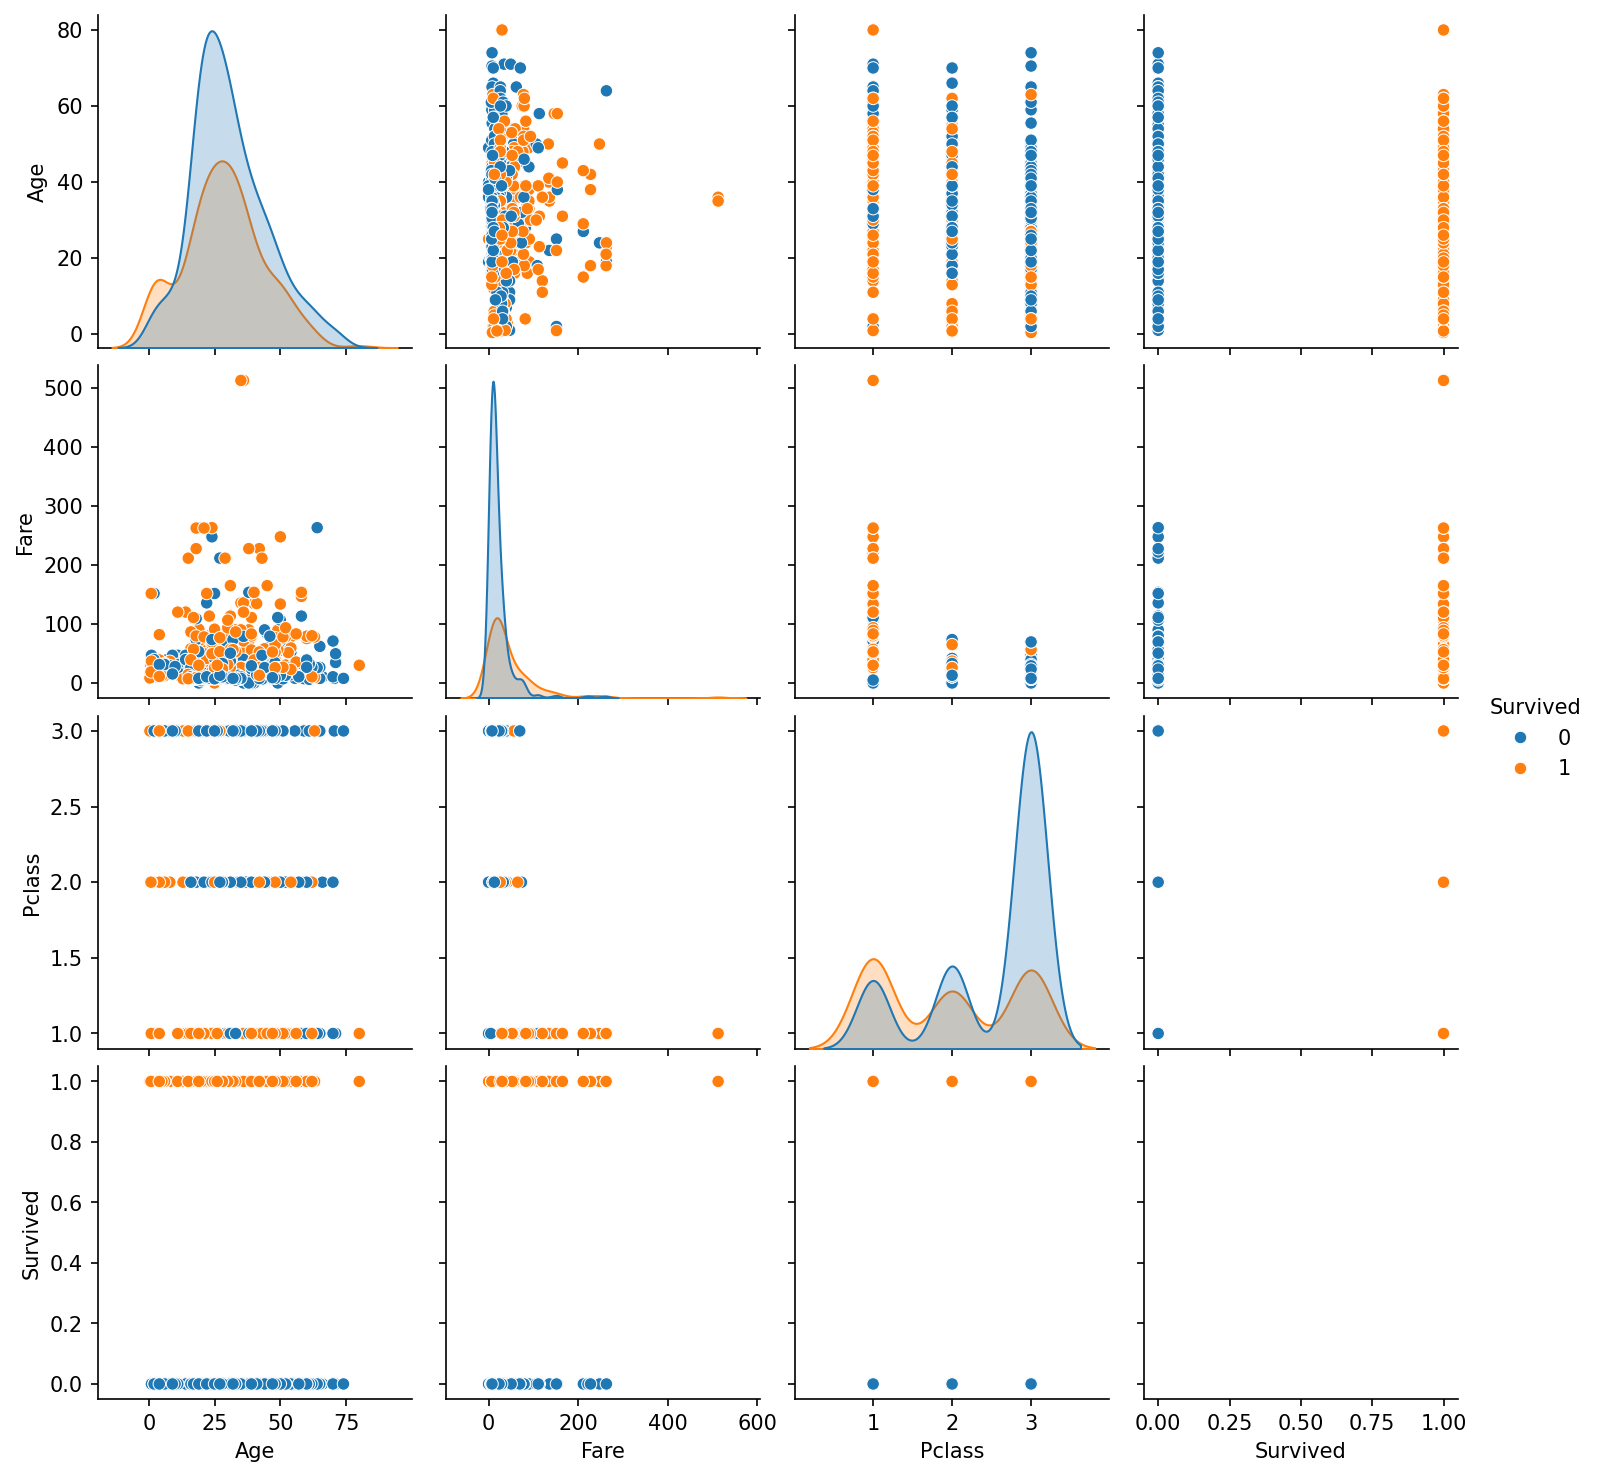
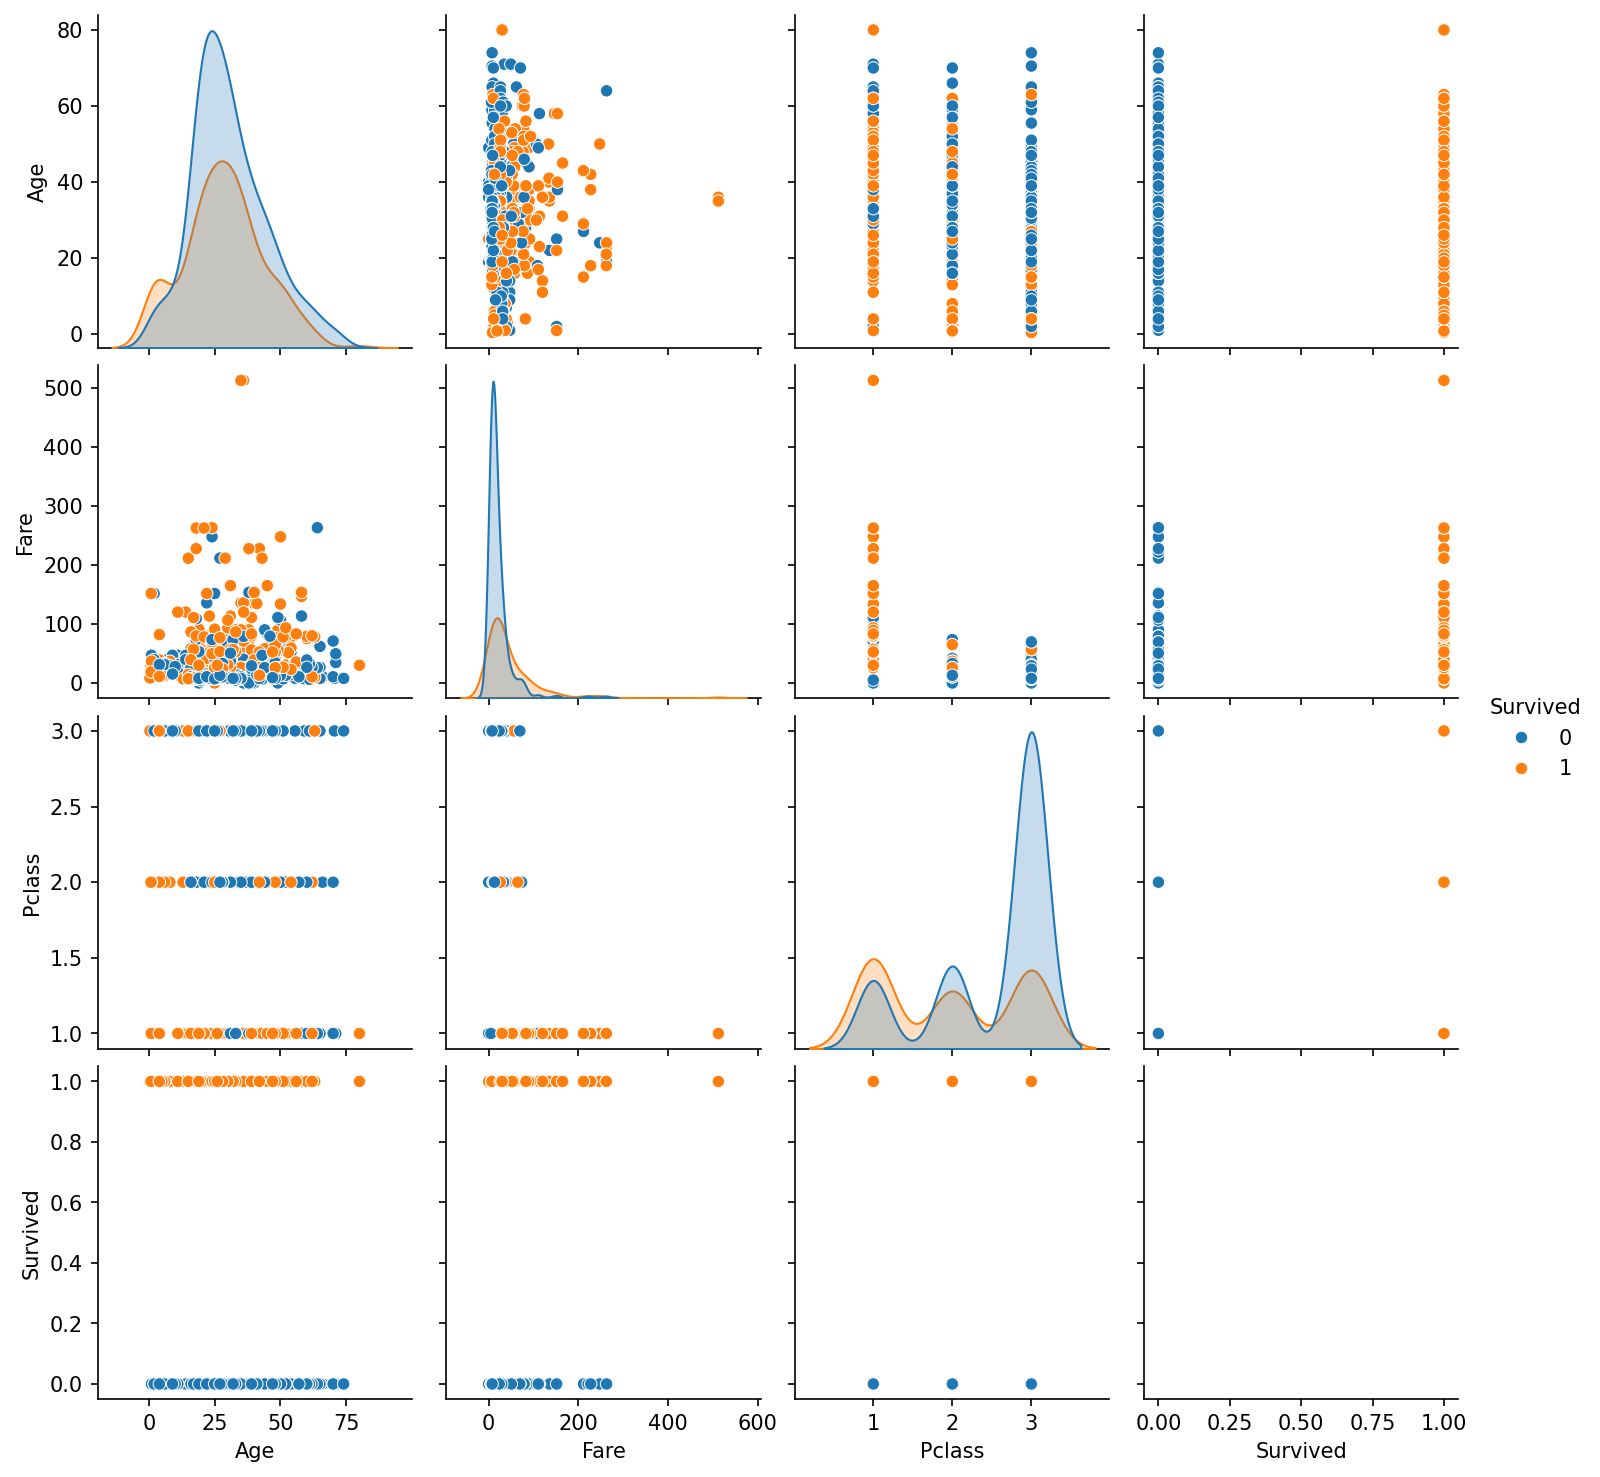
skeleton for week 4 probability/bayes thrm

diff --git a/src/week4/probability.py b/src/week4/probability.py
@@ -1,0 +1,14 @@
+from pathlib import Path
+
+import pandas as pd
+
+from week3.capstone import DATA_PATH
+
+
+def empirical_probability(df: pd.DataFrame, column: str, value) -> float:
+    pass
+
+
+if __name__ == "__main__":
+    DATA_PATH = "data/output/raw/titanic.csv"
+    df = pd.read_csv(DATA_PATH)